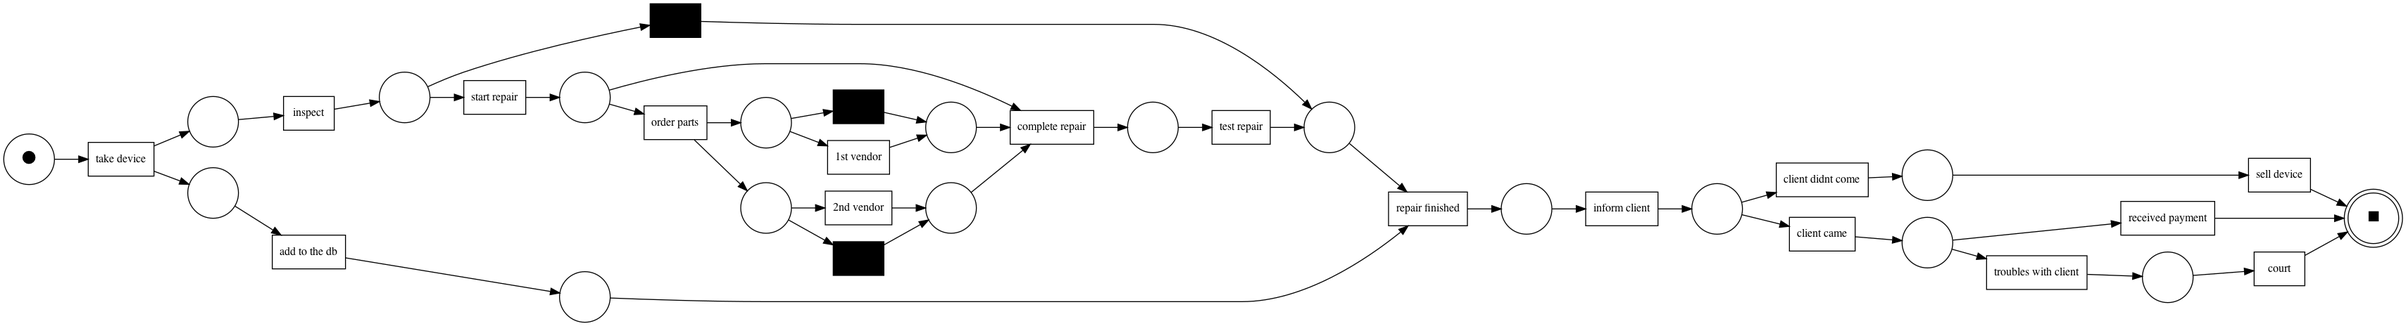
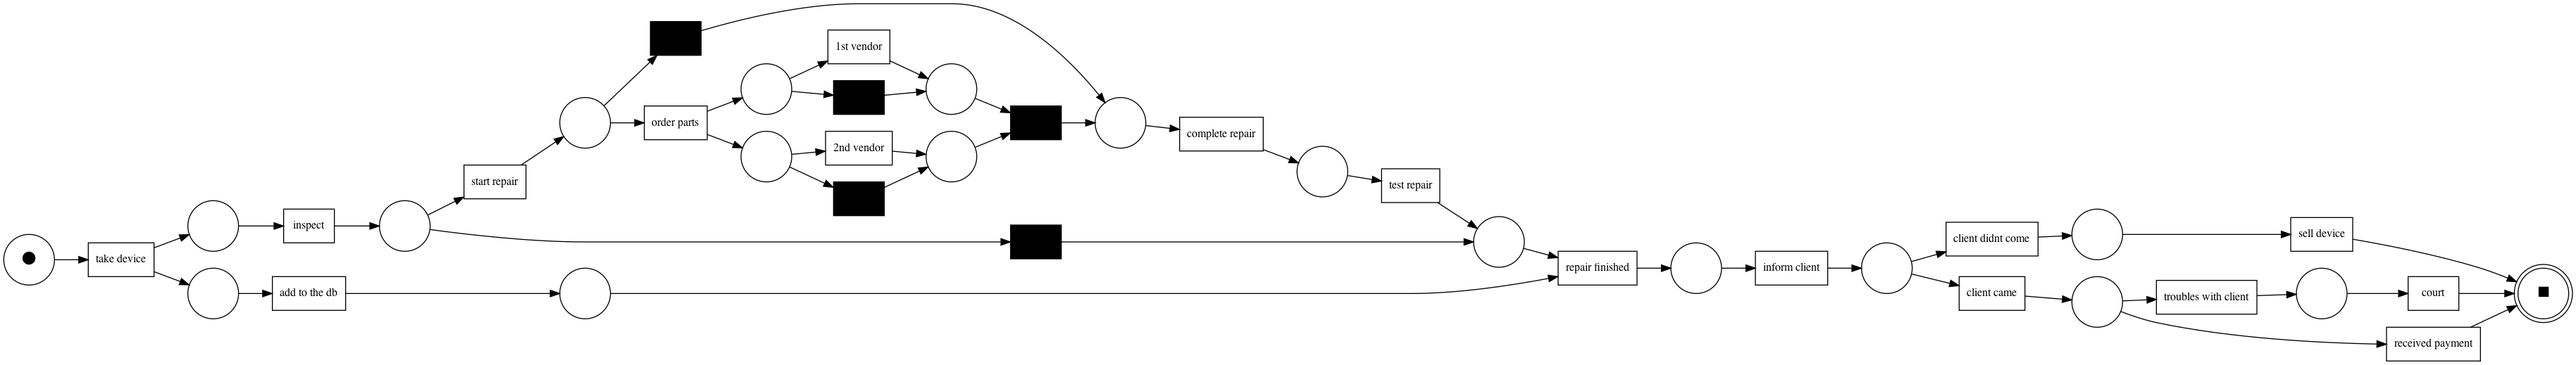
draft combining bad pairs and hammocks

diff --git a/conformance_analysis/bad_pairs.py b/conformance_analysis/bad_pairs.py
@@ -1,0 +1,125 @@
+from pm4py.algo.conformance.tokenreplay import algorithm as token_replay
+from copy import copy
+from pm4py.objects.petri_net.obj import PetriNet
+from pm4py.algo.conformance.alignments.petri_net import algorithm as alignments
+
+
+DEBUG = False
+
+
+class MyToken:
+    def __init__(self):
+        self.direct_ancestors = set()  # just ancestors
+        self.red_ancestors = set()    # ancestors before bad transitions
+
+
+def format_alignment(alignment):
+    '''
+    'log': labels
+    'model': (label, name)
+    '''
+    log_steps = [labels[0] for names, labels in alignment]
+    model_steps = [(labels[1], names[1]) for names, labels in alignment]
+    data = {'log' : log_steps, 'model' : model_steps}
+    return data
+
+
+def __find_bad_pairs(net: PetriNet, alignment, initial_marking):
+    '''
+    alignment for one trace
+              must be formatted
+    '''
+
+    bad_pairs = {}  # pair : cnt
+
+    marking = {}  # place -> [tokens]
+    for plc in net.places:
+        marking[plc] = []
+
+    for place, cnt in initial_marking.items():
+        marking[place] = [MyToken()] * cnt
+
+    if DEBUG:
+        print_my_marking(marking)
+
+    for i in range(len(alignment['model'])):
+        model_label, model_name = alignment['model'][i]
+        log_label = alignment['log'][i]
+
+        if model_label != '>>':  # fired transition
+            # find transition
+            fired_transition = None
+            for t in net.transitions:
+                if t.name == model_name:
+                    fired_transition = t
+                    break
+            if DEBUG:
+                print(f'fired transition: {fired_transition}')
+
+            consumed_tokens = []
+            # consume tokens
+            for in_arc in fired_transition.in_arcs:
+                in_plc = in_arc.source
+                consumed_tokens.append(marking[in_plc].pop(0))
+
+            # unite lists
+            union_token = MyToken()
+            for token in consumed_tokens:
+                union_token.red_ancestors = set.union(union_token.red_ancestors,
+                                                      token.red_ancestors)
+                union_token.direct_ancestors = set.union(union_token.direct_ancestors,
+                                                         token.direct_ancestors)
+
+            if model_label is None:  # hidden transition
+                # just save the condition
+                pass
+            elif model_label == log_label:  # sync move
+                for red_ancestor in union_token.red_ancestors:  # add a pair of transitions
+                    pair = (red_ancestor, fired_transition.label)
+                    if DEBUG:
+                        print(f'added bad pair:\t{pair}')
+                    if pair in bad_pairs:
+                        bad_pairs[pair] += 1
+                    else:
+                        bad_pairs[pair] = 1
+                union_token.red_ancestors = set()
+                union_token.direct_ancestors = set([fired_transition.label])
+            elif log_label == '>>':  # model-only move
+                union_token.red_ancestors = set.union(union_token.red_ancestors,
+                                                      union_token.direct_ancestors)
+
+            # produce tokens
+            for out_arc in fired_transition.out_arcs:
+                out_plc = out_arc.target
+                marking[out_plc].append(copy(union_token))
+
+            if DEBUG:
+                print_my_marking(marking)
+        else:  # log-only move
+            pass
+
+    return bad_pairs
+
+
+def find_bad_pairs(net: PetriNet, initial_marking, final_marking, log):
+    '''
+    applying alignments
+    '''
+
+    parameters = {
+        alignments.Variants.VERSION_STATE_EQUATION_A_STAR.value.Parameters.PARAM_ALIGNMENT_RESULT_IS_SYNC_PROD_AWARE: True}
+    aligned_traces = alignments.apply_log(log, net, initial_marking,
+                                          final_marking, parameters=parameters)
+
+    bad_pairs = {}
+
+    for aligned_trace in aligned_traces:
+        alignment = format_alignment(aligned_trace['alignment'])
+        cur_bad_pairs = __find_bad_pairs(net, alignment, initial_marking)
+        for plc, cnt in cur_bad_pairs.items():
+            if plc in bad_pairs:
+                bad_pairs[plc] += cnt
+            else:
+                bad_pairs[plc] = cnt
+
+    return bad_pairs

diff --git a/hammocks_covering/examples/min_hammock.py b/hammocks_covering/examples/min_hammock.py
@@ -1,19 +1,24 @@
-from hammocks_covering.examples.test_net import create_net
+from hammocks_covering.examples import test_net
 from pm4py.visualization.petri_net import visualizer as pn_visualizer
-from hammocks_covering.examples.net_helpers import get_transition_by_label
+from utils.net_helpers import find_transition_by_label
 from hammocks_covering import algorithm as hammocks_covering
-import hammock_vis
+from visualization import hammock_vis
+from pm4py.objects.conversion.log import converter
+from pm4py.algo.simulation.playout.petri_net import algorithm as pn_playout
+from pm4py.algo.filtering.pandas.end_activities import end_activities_filter
+from utils import net_helpers
+from conformance_analysis import bad_pairs
 
-net, init_marking, final_marking = create_net()
+net, init_marking, final_marking = test_net.create_net()
 
-order_parts_t = get_transition_by_label(net, 'order parts')
-sec_vendor_t = get_transition_by_label(net, '2nd vendor')
-add_to_the_db_t = get_transition_by_label(net, 'add to the db')
-inspect_t = get_transition_by_label(net, 'inspect')
-client_didnt_come_t = get_transition_by_label(net, 'client didnt come')
-sell_device_t = get_transition_by_label(net, 'sell device')
-complete_repair_t = get_transition_by_label(net, 'complete repair')
-repair_finished_t = get_transition_by_label(net, 'repair finished')
+order_parts_t = find_transition_by_label(net, 'order parts')
+sec_vendor_t = find_transition_by_label(net, '2nd vendor')
+add_to_the_db_t = find_transition_by_label(net, 'add to the db')
+inspect_t = find_transition_by_label(net, 'inspect')
+client_didnt_come_t = find_transition_by_label(net, 'client didnt come')
+sell_device_t = find_transition_by_label(net, 'sell device')
+complete_repair_t = find_transition_by_label(net, 'complete repair')
+repair_finished_t = find_transition_by_label(net, 'repair finished')
 
 
 def print_min_hammock():
@@ -61,3 +66,23 @@ def print_min_hammock_pairs():
 
     viz = hammock_vis.visualize_hammocks(net, hammocks, nodes)
     pn_visualizer.save(viz, 'images/pairs_hammocks.png')
+
+
+def print_bad_pair_hammock():
+    sim_log = pn_playout.apply(net, init_marking, final_marking)
+    df = converter.apply(sim_log, variant=converter.Variants.TO_DATA_FRAME)
+    filtered_log = end_activities_filter.apply(df, ['sell device', 'received payment', 'court'])
+
+    net_helpers.del_trans('admit_helplessness_hidden_t', net)
+
+    bad_ps = bad_pairs.find_bad_pairs(net, init_marking, final_marking, converter.apply(df, variant=converter.Variants.TO_EVENT_LOG))
+    pairs = [(find_transition_by_label(net, p[0]), find_transition_by_label(net, p[1])) for p in bad_ps.keys()]
+    hammocks = hammocks_covering.apply(net, __conv_pairs_to_graph(pairs), as_graph=True)
+
+    nodes = []
+    for pair in pairs:
+        nodes.append(pair[0])
+        nodes.append(pair[1])
+
+    viz = hammock_vis.visualize_hammocks(net, hammocks, nodes)
+    pn_visualizer.save(viz, 'images/bad_pair_hammock.png')

diff --git a/hammocks_covering/examples/test_net.py b/hammocks_covering/examples/test_net.py
@@ -23,7 +23,7 @@ def create_net():
     net.places.add(start)
 
     plcs = [None]
-    for i in range(1, 17):
+    for i in range(1, 18):
         plcs.append(PetriNet.Place(f"p{i}"))
         net.places.add(plcs[i])
 
@@ -54,6 +54,8 @@ def create_net():
     hidden_transitions['admit helplessness'] = make_transition('admit helplessness', net, is_hidden=True)
     hidden_transitions['no 1st vendor'] = make_transition('no 1st vendor', net, is_hidden=True)
     hidden_transitions['no 2nd vendor'] = make_transition('no 2nd vendor', net, is_hidden=True)
+    hidden_transitions['no parts'] = make_transition('no parts', net, is_hidden=True)
+    hidden_transitions['finished order'] = make_transition('finished order', net, is_hidden=True)
 
     # arcs
     petri_utils.add_arc_from_to(start, transitions['take device'], net)
@@ -70,7 +72,7 @@ def create_net():
     petri_utils.add_arc_from_to(plcs[5], transitions['repair finished'], net)
 
     petri_utils.add_arc_from_to(plcs[6], transitions['order parts'], net)
-    petri_utils.add_arc_from_to(plcs[6], transitions['complete repair'], net)
+    petri_utils.add_arc_from_to(plcs[6], hidden_transitions['no parts'], net)
 
     petri_utils.add_arc_from_to(plcs[7], transitions['1st vendor'], net)
     petri_utils.add_arc_from_to(plcs[7], hidden_transitions['no 1st vendor'], net)
@@ -80,9 +82,9 @@ def create_net():
 
     petri_utils.add_arc_from_to(plcs[9], transitions['test repair'], net)
 
-    petri_utils.add_arc_from_to(plcs[10], transitions['complete repair'], net)
+    petri_utils.add_arc_from_to(plcs[10], hidden_transitions['finished order'], net)
 
-    petri_utils.add_arc_from_to(plcs[11], transitions['complete repair'], net)
+    petri_utils.add_arc_from_to(plcs[11], hidden_transitions['finished order'], net)
 
     petri_utils.add_arc_from_to(plcs[12], transitions['repair finished'], net)
 
@@ -96,6 +98,7 @@ def create_net():
     petri_utils.add_arc_from_to(plcs[16], transitions['troubles with client'], net)
     petri_utils.add_arc_from_to(plcs[16], transitions['received payment'], net)
 
+    petri_utils.add_arc_from_to(plcs[17], transitions['complete repair'], net)
     #
     petri_utils.add_arc_from_to(transitions['take device'], plcs[1], net)
     petri_utils.add_arc_from_to(transitions['take device'], plcs[4], net)
@@ -118,6 +121,10 @@ def create_net():
     petri_utils.add_arc_from_to(transitions['2nd vendor'], plcs[11], net)
 
     petri_utils.add_arc_from_to(hidden_transitions['no 2nd vendor'], plcs[11], net)
+
+    petri_utils.add_arc_from_to(hidden_transitions['no parts'], plcs[17], net)
+
+    petri_utils.add_arc_from_to(hidden_transitions['finished order'], plcs[17], net)
 
     petri_utils.add_arc_from_to(transitions['complete repair'], plcs[9], net)
 

diff --git a/utils/net_helpers.py b/utils/net_helpers.py
@@ -1,0 +1,101 @@
+from pm4py.objects.petri_net.obj import PetriNet, Marking
+
+
+def find_transition_by_label(net, label):
+    for transition in net.transitions:
+        if transition.label == label:
+            return transition
+    return None
+
+
+def _del_arc(arc, net):
+    if arc is None:
+        return
+    if arc is None:
+        return
+
+    print('removed', arc)
+
+    arc.source.out_arcs.remove(arc)
+    arc.target.in_arcs.remove(arc)
+    net.arcs.remove(arc)
+
+
+def del_arc(source_name, target_name, net):
+    bad_arc = None
+    for arc in net.arcs:
+        match_source = (source_name == arc.source.name)
+        if isinstance(arc.source, PetriNet.Transition):
+            match_source = match_source or (source_name == arc.source.label)
+        match_target = (target_name == arc.target.name)
+        if isinstance(arc.target, PetriNet.Transition):
+            match_target = match_target or (target_name == arc.target.label)
+
+        if match_source and match_target:
+            bad_arc = arc
+
+    _del_arc(bad_arc, net)
+
+
+def del_trans(label, net):
+    """
+    delete with arcs
+    """
+    del_tr = None
+    for trans in net.transitions:
+        if trans.label == label or trans.name == label:
+            del_tr = trans
+            break
+
+    if del_tr is None:
+        return
+    print('delete', del_tr)
+    net.transitions.remove(del_tr)
+    arcs_to_del = list(del_tr.in_arcs) + list(del_tr.out_arcs)
+    for arc in arcs_to_del:
+        _del_arc(arc, net)
+
+
+def del_place(label, net):
+    """
+    delete with arcs
+    """
+    del_plc = None
+    for place in net.places:
+        if place.name == label:
+            del_plc = place
+            break
+
+    if del_plc is None:
+        return
+    print('delete', del_plc)
+    net.places.remove(del_plc)
+    arcs_to_del = list(del_plc.in_arcs) + list(del_plc.out_arcs)
+    for arc in arcs_to_del:
+        _del_arc(arc, net)
+
+
+def create_arc(source_name, target_name, net):
+    source = None
+    target = None
+
+    for place in net.places:
+        if (place.name == source_name):
+            source = place
+        if (place.name == target_name):
+            target = place
+
+    for trans in net.transitions:
+        if (trans.label == source_name):
+            source = trans
+        if (trans.label == target_name):
+            target = trans
+
+    if source is None or target is None:
+        return
+    # print(source, target)
+    arc = PetriNet.Arc(source, target, 1)
+    if arc in net.arcs:
+        return
+    print('created', arc)
+    net.arcs.add(arc)

diff --git a/main.py b/main.py
@@ -1,4 +1,47 @@
 from hammocks_covering.examples import min_hammock
+from hammocks_covering.examples import test_net
+from pm4py.algo.simulation.playout.petri_net import algorithm as pn_playout
+from pm4py.objects.conversion.log import converter
+from pm4py.algo.filtering.pandas.end_activities import end_activities_filter
+from conformance_analysis import bad_pairs
+from utils import net_helpers
+from pm4py.visualization.petri_net import visualizer as pn_visualizer
+from hammocks_covering import algorithm as hammocks_covering
 
 # min_hammock.print_min_hammock()
-min_hammock.print_min_hammock_pairs()
+# min_hammock.print_min_hammock_pairs()
+
+min_hammock.print_bad_pair_hammock()
+exit(0)
+
+net, init_marking, final_marking = test_net.create_net()
+
+
+sim_log = pn_playout.apply(net, init_marking, final_marking)
+df = converter.apply(sim_log, variant=converter.Variants.TO_DATA_FRAME)
+filtered_log = end_activities_filter.apply(df, ['sell device', 'received payment', 'court'])
+
+
+# delete the 2nd vendor  # no sense as it produces a log-only move
+# net_helpers.del_place('p7', net)
+# net_helpers.del_place('p10', net)
+# net_helpers.del_trans('1st vendor', net)
+# net_helpers.del_trans('no_1st_vendor_hidden_t', net)
+
+net_helpers.del_trans('admit_helplessness_hidden_t', net)
+
+# for place in net.places:
+#     print(place.name)
+#     print('  out:  ', end='')
+#     for out_arc in place.out_arcs:
+#         print(out_arc.target, end=' ')
+#     print('\n  in:  ', end='')
+#     for in_arc in place.in_arcs:
+#         print(in_arc.source, end=' ')
+#     print('')
+
+bad_pairs = bad_pairs.find_bad_pairs(net, init_marking, final_marking, converter.apply(df, variant=converter.Variants.TO_EVENT_LOG))
+
+
+
+# print(filtered_log[:40])

diff --git a/hammocks_covering/examples/__init__.py b/hammocks_covering/examples/__init__.py
@@ -1,1 +1,1 @@
-from hammocks_covering.examples import min_hammock, net_helpers, test_net
+from hammocks_covering.examples import min_hammock, test_net
